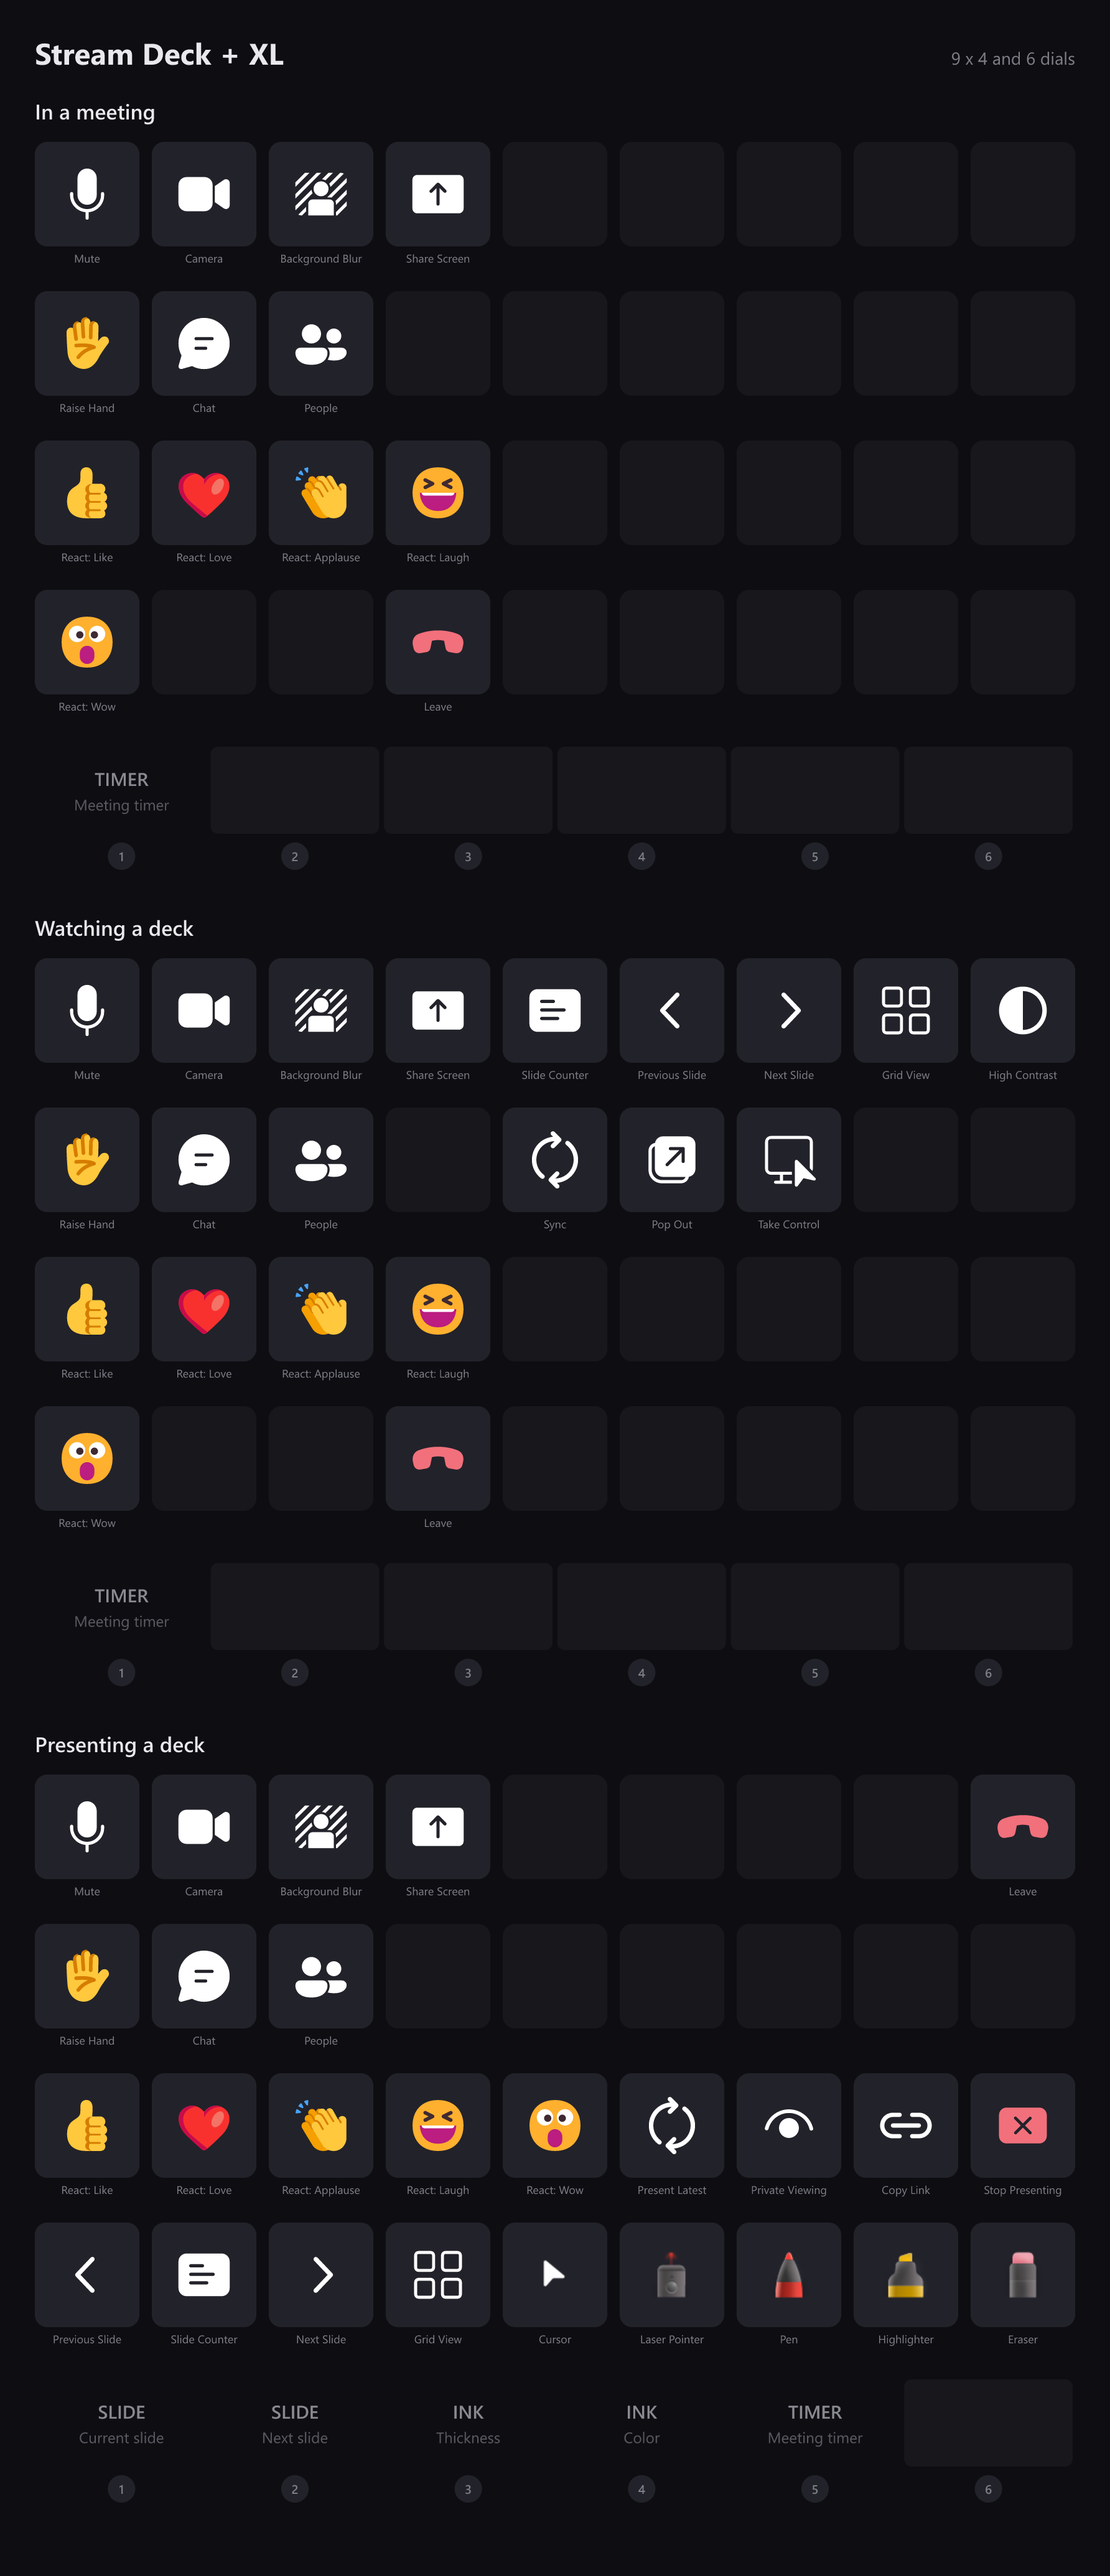
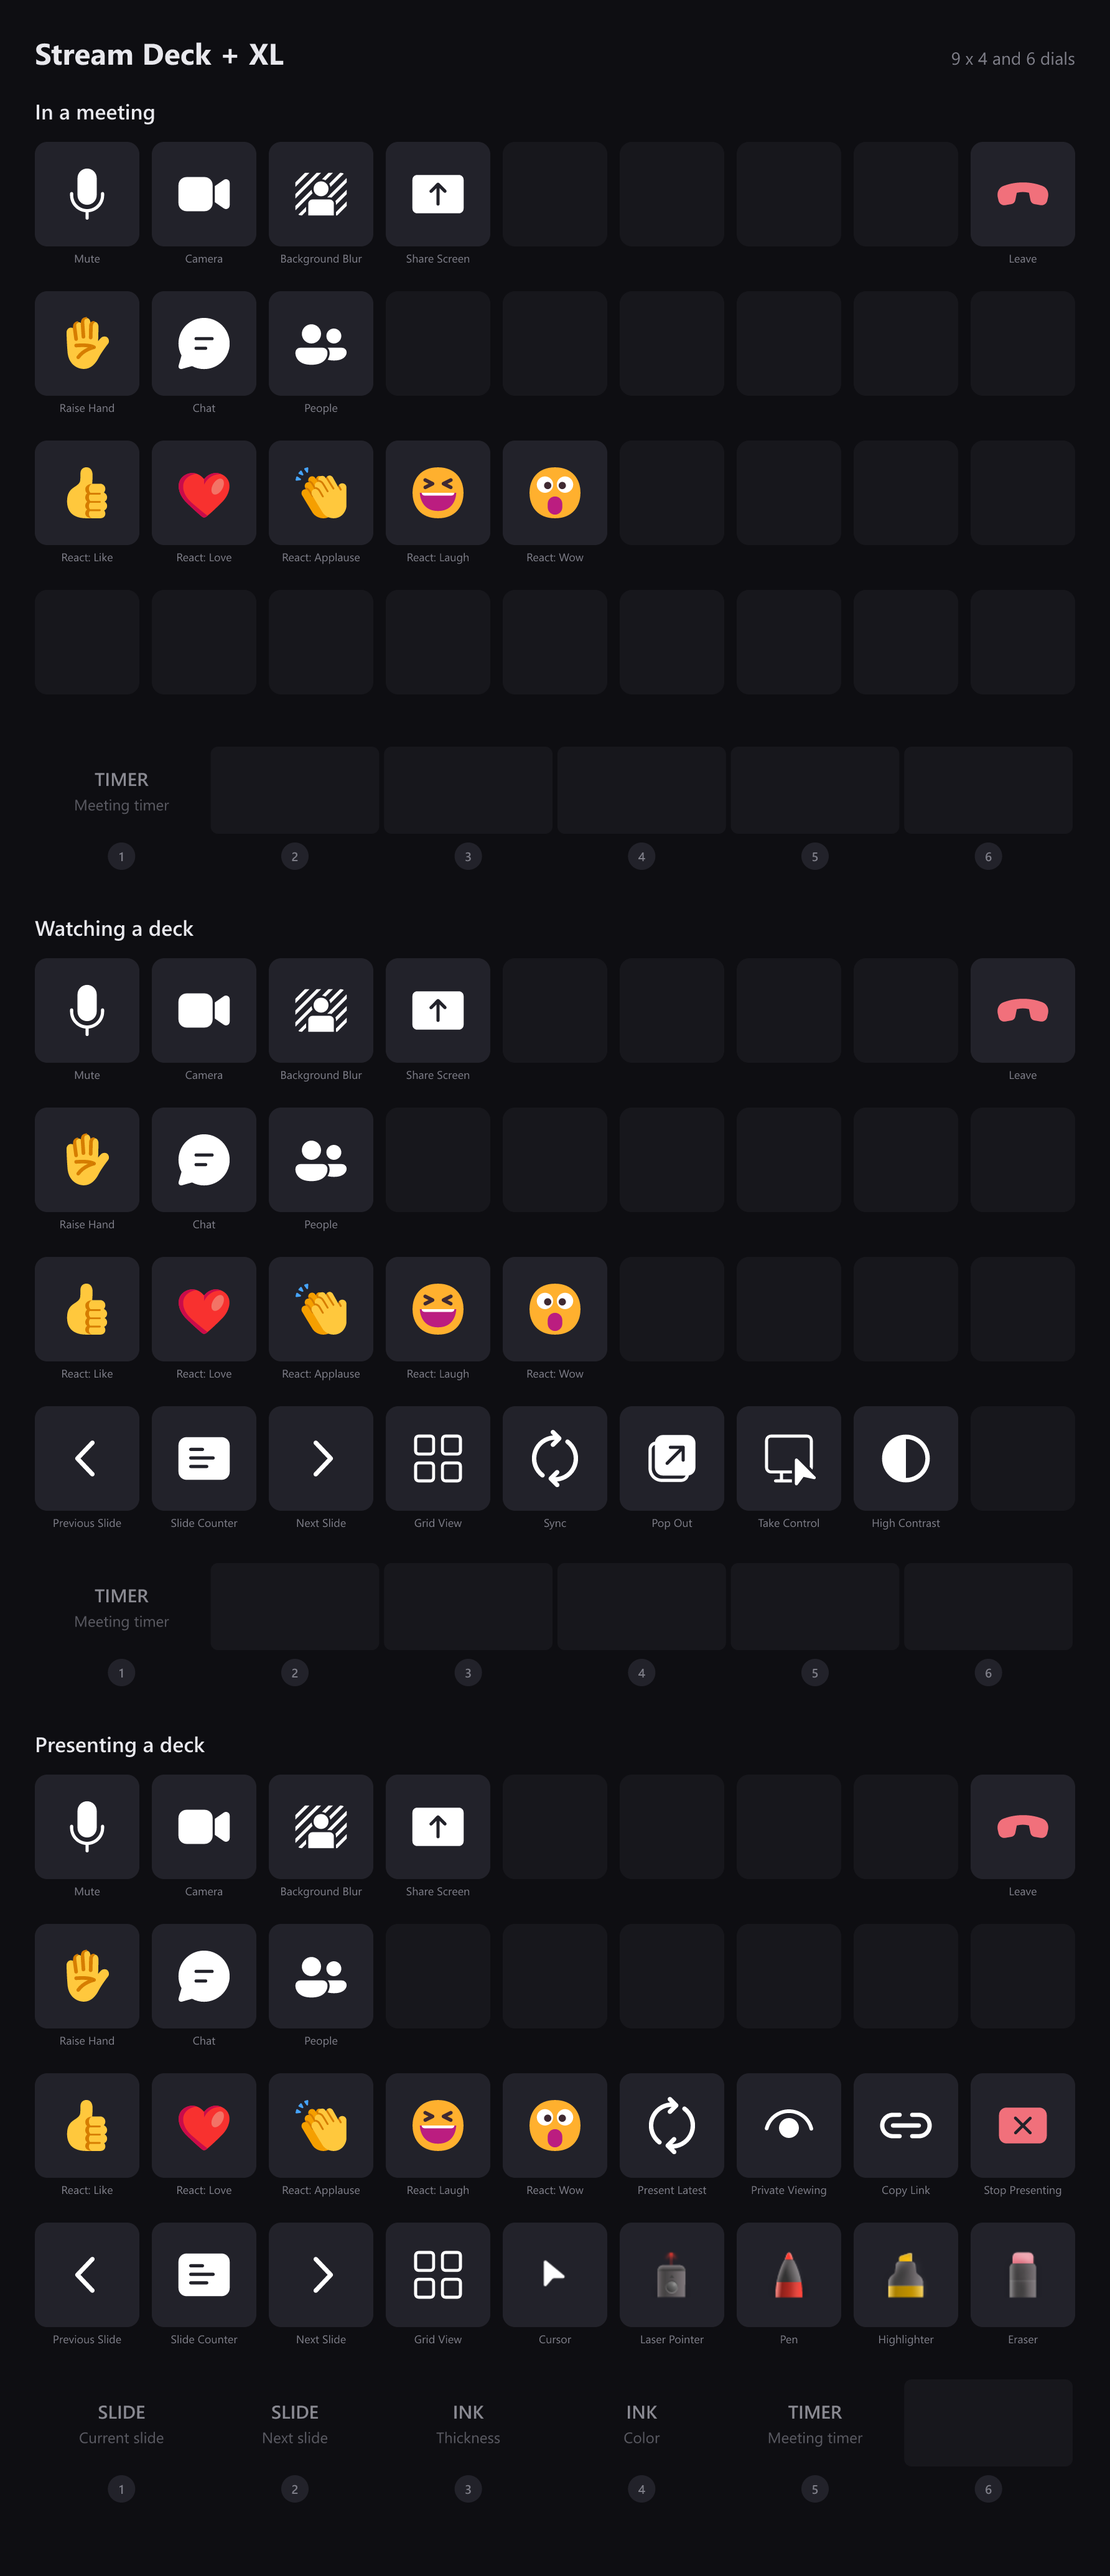
Drop the Studio and refresh the layout sheets
The plugin no longer ships Studio layouts - it is a rack-mounted
broadcast deck, and unlikely to be in front of anyone running a Teams
meeting - so the card and its sheet go with them.

The remaining six sheets are regenerated. Every PowerPoint Live layout
is now built from the + XL presenter layout, which puts the slide
navigation together on the bottom row.

Copilot-Session: 83813fa5-19f8-4e00-b52d-fffc70c0bab2

diff --git a/index.html b/index.html
@@ -223,8 +223,8 @@
         </figure>
         <figure class="shot">
           <img src="img/gallery-decks.png"
-               alt="The grids of all seven supported Stream Deck models" loading="lazy">
-          <figcaption>Every Stream Deck gets its own layouts — Mini, Stream Deck, +, Neo, XL, Studio and + XL — with dials covered on the decks that have them.</figcaption>
+               alt="The grids of all six supported Stream Deck models" loading="lazy">
+          <figcaption>Every Stream Deck gets its own layouts — Mini, Stream Deck, +, Neo, XL and + XL — with dials covered on the decks that have them.</figcaption>
         </figure>
         <figure class="shot">
           <img src="img/gallery-no-meeting.png"
@@ -278,14 +278,6 @@
           <div class="sheet">
             <img src="img/layouts/xl.png" width="700"
                  alt="The three Stream Deck XL layouts" loading="lazy">
-          </div>
-        </details>
-
-        <details class="deck">
-          <summary>Stream Deck Studio<span class="grid">16 &times; 2 &middot; 2 dials</span></summary>
-          <div class="sheet">
-            <img src="img/layouts/studio.png" width="900"
-                 alt="The three Stream Deck Studio layouts" loading="lazy">
           </div>
         </details>
 

diff --git a/README.md b/README.md
@@ -86,10 +86,10 @@ Copy-Item "..\streamdeck-teams-control\docs\profiles\*.png" img\layouts\ -Force
 ```
 
 Names match the plugin's deck slugs (`mini`, `stream-deck`, `plus`, `neo`, `xl`,
-`studio`, `plus-xl`), so adding a deck there means adding a `<details>` block
+`plus-xl`), so adding a deck there means adding a `<details>` block
 here — nothing picks it up automatically. The sheets are inside collapsed
-`<details>` and marked `loading="lazy"`, so none of the 1.6 MB is fetched until
-a reader opens one.
+`<details>` and marked `loading="lazy"`, so none of the megabyte-plus is fetched
+until a reader opens one.
 
 Brand palette, taken from the Teams Meeting Controls app icon:
 
